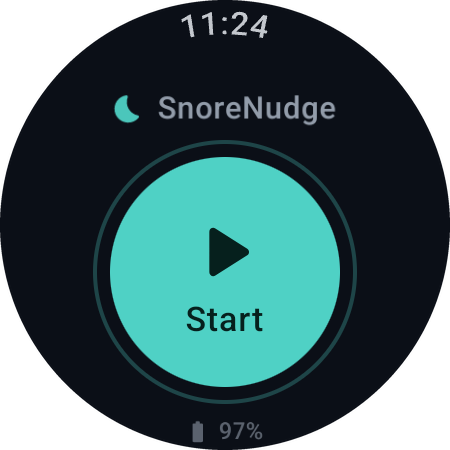
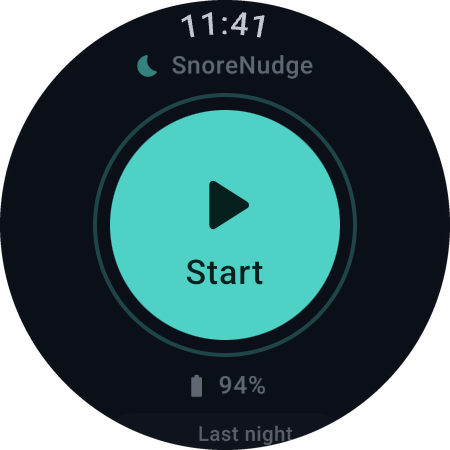
README: update screenshots with the new Home layout
Claude-Session: https://claude.ai/code/session_01J5AgBh4Y5Ca6mZiEgWcfbw

diff --git a/README.md b/README.md
@@ -7,9 +7,11 @@ SnoreNudge runs entirely on the watch. It listens through the watch's own microp
 Built for and tested on the **Samsung Galaxy Watch4 Classic** (Wear OS, Android 14). It works with a watch paired to an iPhone, or with no phone at all.
 
 <p align="center">
-  <img src="docs/screenshots/home.png" width="240" alt="Home screen with the Start button">
-  &nbsp;&nbsp;
-  <img src="docs/screenshots/menu.png" width="240" alt="Home menu: History, Live test, Settings">
+  <img src="docs/screenshots/home.png" width="220" alt="Home screen with the Start button centered">
+  &nbsp;
+  <img src="docs/screenshots/scroll.png" width="220" alt="Scrolling: last night summary and History">
+  &nbsp;
+  <img src="docs/screenshots/menu.png" width="220" alt="Menu: Last night, History, Live test">
 </p>
 <p align="center"><sub>Running on a Galaxy Watch4 Classic (46 mm). Screenshots captured over adb.</sub></p>
 
